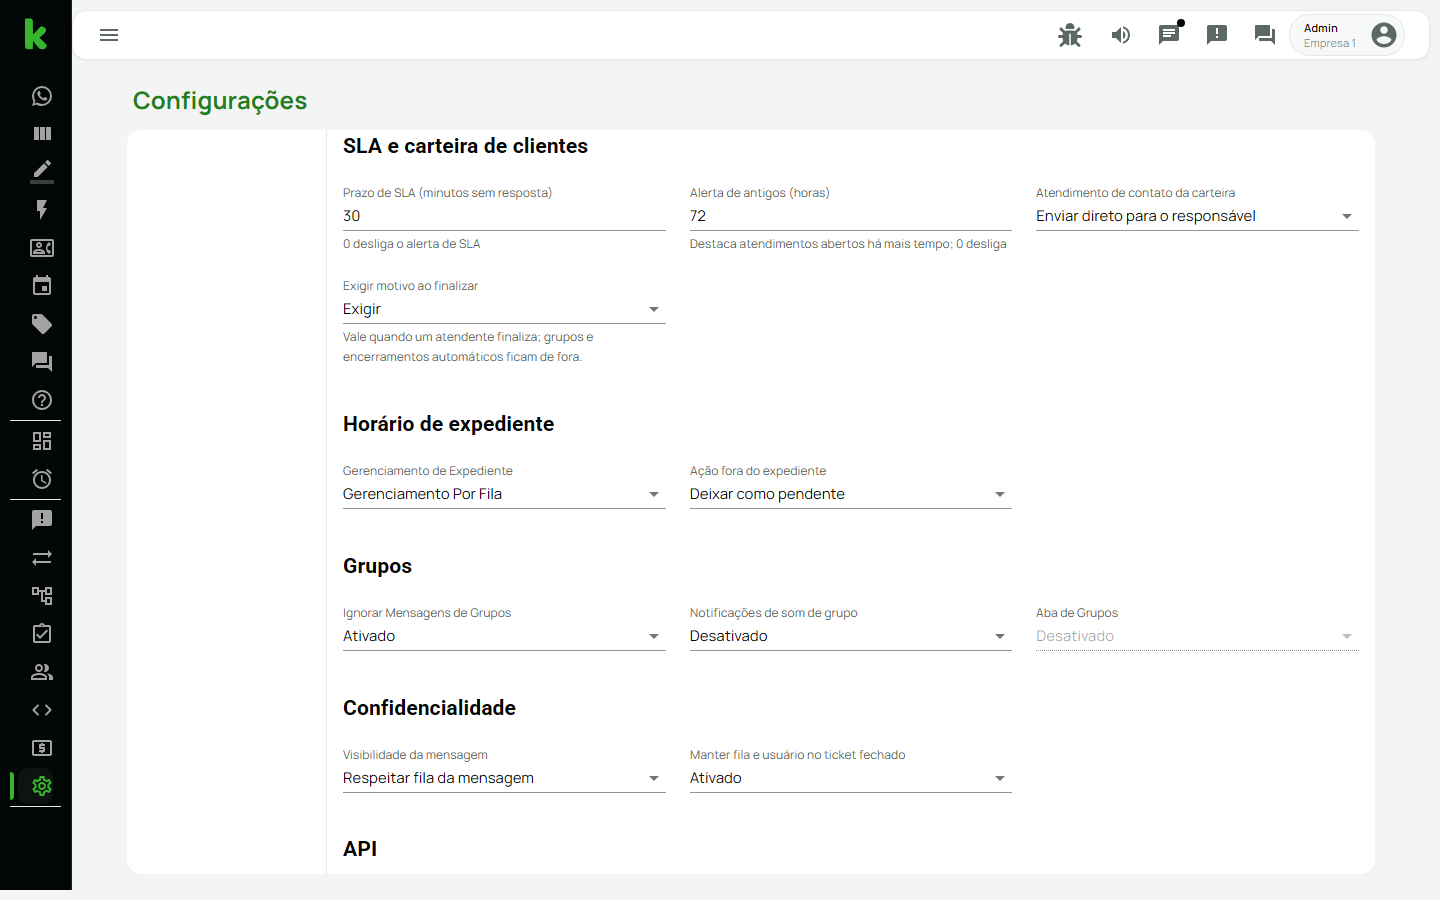
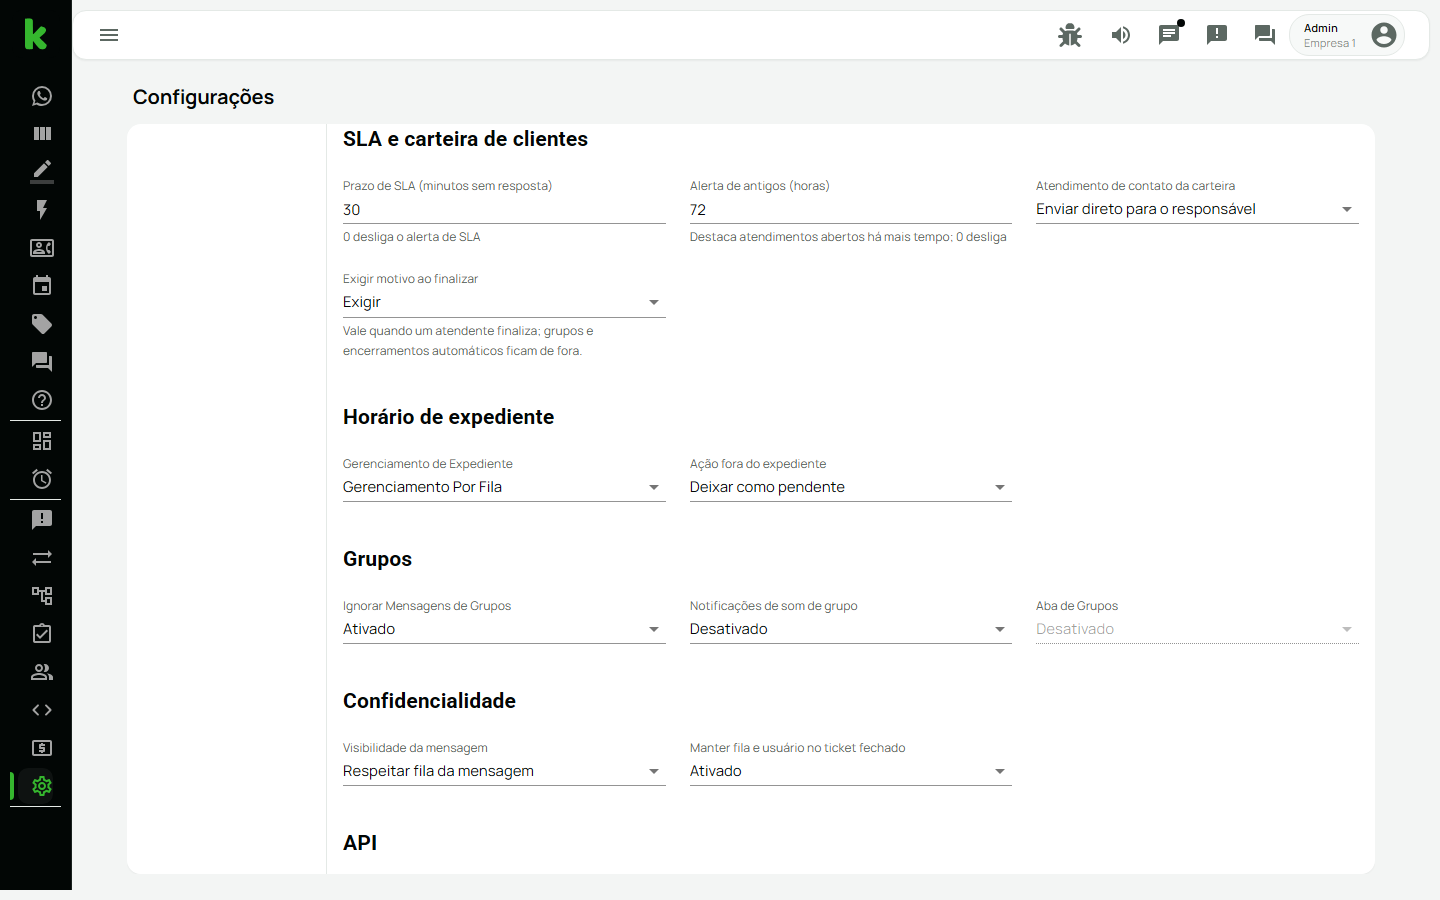
KOM-144 Telas internas no estilo da Direção B: Kanban, Contatos, Painel de SLA, títulos e tabelas
- Títulos de página em preto e negrito; cabeçalho de tabela com faixa de fundo (tema).
- Kanban: colunas sem painel, barra colorida no topo, cartões com borda e avatar neutro; fim das cores fixas.
- Contatos: avatares neutros, carteira em etiqueta verde clara, importar e exportar em contorno.
- Painel de SLA: selos de situação em tom suave.
- Capturas refeitas, LEIA-ME do Stitch com o que entrou e o que ficou de fora, CHANGELOG.

diff --git a/frontend/src/pages/Contacts/index.js b/frontend/src/pages/Contacts/index.js
@@ -37,13 +37,13 @@ import toastError from "../../errors/toastError";
 import { AuthContext } from "../../context/Auth/AuthContext";
 import { Can } from "../../components/Can";
 import { SocketContext } from "../../context/Socket/SocketContext";
-import { generateColor } from "../../helpers/colorGenerator";
 import { getInitials } from "../../helpers/getInitials";
 
 import { FontAwesomeIcon } from "@fortawesome/react-fontawesome";
 import { faCloudArrowUp } from "@fortawesome/free-solid-svg-icons";
 import { faDownload } from "@fortawesome/free-solid-svg-icons";
 import {
+  Chip,
   FormControl,
   Grid,
   InputLabel,
@@ -123,7 +123,19 @@ const useStyles = makeStyles(theme => ({
     overflow: "hidden",
     textOverflow: "ellipsis"
   },
-  contactName: {}
+  contactName: {},
+  // Zap Komunick (Direção B): neutral initials and a soft green wallet chip
+  avatar: {
+    backgroundColor: theme.komunick.tagBackground,
+    color: theme.palette.text.primary,
+    fontWeight: 700,
+    fontSize: 14
+  },
+  walletChip: {
+    backgroundColor: theme.komunick.bubbleMine,
+    border: `1px solid ${theme.komunick.bubbleMineBorder}`,
+    color: theme.palette.primary.main
+  }
 }));
 
 const Contacts = () => {
@@ -388,27 +400,20 @@ const Contacts = () => {
           />
           {user?.profile === "admin" && (
             <>
-              <Button
-                variant="contained"
-                color="primary"
-                onClick={() => importCsv()}
+              <Button variant="outlined" onClick={() => importCsv()}
               >
                 &nbsp;
                 <FontAwesomeIcon icon={faCloudArrowUp} />
                 &nbsp;
               </Button>
-              <Button
-                variant="contained"
-                color="primary"
-                onClick={() => exportCsv()}
+              <Button variant="outlined" onClick={() => exportCsv()}
               >
                 &nbsp;
                 <FontAwesomeIcon icon={faDownload} />
                 &nbsp;
               </Button>
               <Button
-                variant="contained"
-                color="primary"
+                variant="outlined"
                 onClick={() => setImportConfirmOpen(true)}
               >
                 {i18n.t("contacts.buttons.import")}
@@ -455,11 +460,7 @@ const Contacts = () => {
                   <TableCell style={{ paddingRight: 0 }}>
                     {
                       <Avatar
-                        style={{
-                          backgroundColor: generateColor(contact?.number),
-                          fontWeight: "bold",
-                          color: "white"
-                        }}
+                        className={classes.avatar}
                         src={contact.profilePicUrl}
                       >
                         {getInitials(contact?.name)}
@@ -487,7 +488,13 @@ const Contacts = () => {
                   <TableCell align="center">{contact.number}</TableCell>
                   <TableCell align="center">{contact.email}</TableCell>
                   <TableCell align="center">
-                    {contact.walletUser?.name || ""}
+                    {contact.walletUser?.name && (
+                      <Chip
+                        size="small"
+                        label={contact.walletUser.name}
+                        className={classes.walletChip}
+                      />
+                    )}
                   </TableCell>
                   <TableCell align="center">
                     {!contact.isGroup && (

diff --git a/frontend/src/pages/Kanban/index.js b/frontend/src/pages/Kanban/index.js
@@ -31,7 +31,6 @@ import api from "../../services/api";
 import toastError from "../../errors/toastError";
 import { i18n } from "../../translate/i18n";
 import { SocketContext } from "../../context/Socket/SocketContext";
-import { generateColor } from "../../helpers/colorGenerator";
 import { getInitials } from "../../helpers/getInitials";
 import pastRelativeDate from "../../helpers/pastRelativeDate";
 
@@ -54,8 +53,12 @@ const useStyles = makeStyles(theme => ({
     display: "flex",
     flexDirection: "column",
     maxHeight: "100%",
-    backgroundColor: theme.mode === "light" ? "#f4f5f7" : "#2b2b2b",
+    // Direção B: no panel behind the cards, just the colored bar on top
+    backgroundColor: "transparent",
+    border: "none",
+    boxShadow: "none",
     borderTop: "4px solid",
+    borderRadius: "4px 4px 0 0",
     transition: "box-shadow 120ms"
   },
   laneOver: {
@@ -82,8 +85,17 @@ const useStyles = makeStyles(theme => ({
     gap: theme.spacing(1),
     minHeight: 80
   },
+  avatar: {
+    backgroundColor: theme.komunick.tagBackground,
+    color: theme.palette.text.primary,
+    width: 32,
+    height: 32,
+    fontSize: 12,
+    fontWeight: 700
+  },
   card: {
-    padding: theme.spacing(1),
+    padding: theme.spacing(1.5),
+    border: `1px solid ${theme.palette.divider}`,
     cursor: "grab",
     display: "flex",
     gap: theme.spacing(1),
@@ -149,13 +161,7 @@ const KanbanCard = ({ ticket, lanes, currentLane, onMove, onOpen }) => {
       <Avatar
         onClick={() => onOpen(ticket)}
         src={ticket.contact?.profilePicUrl}
-        style={{
-          backgroundColor: generateColor(ticket.contact?.number),
-          color: "white",
-          width: 32,
-          height: 32,
-          fontSize: 14
-        }}
+        className={classes.avatar}
       >
         {getInitials(ticket.contact?.name || "")}
       </Avatar>

diff --git a/frontend/src/pages/Sla/index.js b/frontend/src/pages/Sla/index.js
@@ -1,7 +1,7 @@
 import React, { useCallback, useEffect, useMemo, useState } from "react";
 import { useHistory, Link as RouterLink } from "react-router-dom";
 
-import { makeStyles } from "@material-ui/core/styles";
+import { alpha, makeStyles } from "@material-ui/core/styles";
 import Grid from "@material-ui/core/Grid";
 import Paper from "@material-ui/core/Paper";
 import Typography from "@material-ui/core/Typography";
@@ -379,10 +379,18 @@ const Sla = () => {
                             label={i18n.t(`sla.situation.${ticket.situation}`, {
                               hours: config.oldTicketHours
                             })}
+                            // Direção B: soft tinted pill instead of a solid one
                             style={{
-                              backgroundColor:
+                              backgroundColor: alpha(
                                 situationColors[ticket.situation],
-                              color: "white"
+                                0.12
+                              ),
+                              border: `1px solid ${alpha(
+                                situationColors[ticket.situation],
+                                0.25
+                              )}`,
+                              color: situationColors[ticket.situation],
+                              fontWeight: 700
                             }}
                           />
                         </TableCell>

diff --git a/frontend/src/components/Title/index.js b/frontend/src/components/Title/index.js
@@ -3,7 +3,13 @@ import Typography from "@material-ui/core/Typography";
 
 export default function Title(props) {
   return (
-    <Typography variant="h5" color="primary" gutterBottom>
+    // Zap Komunick (Direção B): page titles in the text color, bold
+    <Typography
+      variant="h5"
+      color="textPrimary"
+      gutterBottom
+      style={{ fontSize: "1.25rem", fontWeight: 700, letterSpacing: "-0.01em" }}
+    >
       {props.children}
     </Typography>
   );

diff --git a/frontend/src/theme/komunick.js b/frontend/src/theme/komunick.js
@@ -219,6 +219,9 @@ export function komunickThemeOptions(mode) {
       MuiDialogActions: {
         root: { padding: "12px 24px 20px" }
       },
+      MuiTableHead: {
+        root: { backgroundColor: t.subtle }
+      },
       MuiTableCell: {
         root: { borderBottomColor: t.border },
         head: {

diff --git a/docs/design/stitch-direcao-b/LEIA-ME.md b/docs/design/stitch-direcao-b/LEIA-ME.md
@@ -29,3 +29,17 @@ Os textos de exemplo e as imagens das telas são fictícios; a logo vem de um en
 
 Raios (cartão 14, botão 10, etiqueta 8, janela 18) e fundo `#F3F5F4` já eram os do tema. O menu continua alternando entre
 largo e só ícones; a Direção B mostra só ícones.
+
+## Aplicado nas telas internas (PR seguinte)
+
+- Título de página em preto e negrito (`components/Title`), cabeçalho de tabela com faixa de fundo (`MuiTableHead`).
+- Kanban: colunas sem painel, só a barra colorida no topo; cartões com borda e avatar neutro.
+- Contatos: avatares neutros, carteira como etiqueta verde clara, importar e exportar em contorno.
+- Painel de SLA: selos de situação em tom suave (fundo translúcido, texto colorido).
+
+## Fica de fora (decisão registrada)
+
+- Rótulos acima dos campos e "×" no título das janelas (Material-UI usa rótulo flutuante; mudar isso afeta todos os
+  formulários do upstream).
+- Título da tela e interruptor "Modo escuro" na barra do topo, e o menu sempre só com ícones.
+- Campo de busca preenchido e arredondado, e os "—" nas células vazias das tabelas.

diff --git a/CHANGELOG.md b/CHANGELOG.md
@@ -37,6 +37,8 @@ Mudanças relevantes para quem usa, integra ou opera o projeto.
 - O botão de resolver do atendimento virou "Finalizar".
 - Menu lateral preto (#020605) nos dois temas, com ícone e barra verdes no item ativo, e atendimento selecionado com
   contorno verde na lista, conforme a Direção B do Stitch (referências em `docs/design/stitch-direcao-b`).
+- Telas internas no estilo da Direção B: títulos pretos, cabeçalho de tabela com faixa de fundo, Kanban sem painel atrás
+  das colunas, avatares neutros e carteira em etiqueta verde em Contatos, selos de situação suaves no Painel de SLA.
 
 ### Operação
 
